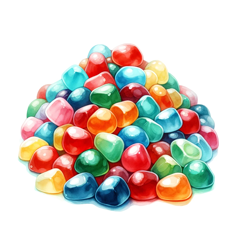
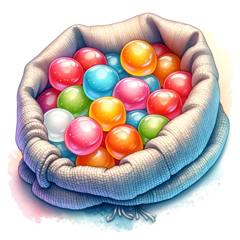
Adds Jasine's Reticent Drops

diff --git a/_posts/2024-01-25-jasines-reticent-drops.md b/_posts/2024-01-25-jasines-reticent-drops.md
@@ -1,0 +1,28 @@
+---
+layout:     post
+title:      "Jasine's Reticent Drops - Magic Item for DnD"
+title_simple:      "Jasine's Reticent Drops"
+date:       2024-01-25 10:00:00 -0400
+categories: magic-item
+tags:       dnd dnd-5e magic-item multi-use tier-1 tier-2 tier-3 tier-4
+magicItemType: wondrous item
+rarity:     common
+requires_attunement: false
+image_base_path: /assets/images/jasines-reticent-drops/
+image:      jasines-reticent-drops-01
+images:
+    - src: jasines-reticent-drops-01
+      alt: Jasine's Reticent Drops
+---
+
+Someone who chews on these enchanted drops will find that they become extremely sticky to the point that the creature eating won't be able to speak for some time. 1 drop is enough to stop someone from speaking for a full minute. If more drops are consumed at the same time, it has increasingly detrimental effects. 2 drops last 5 minutes, 3 last for 30 minutes, and 4 last for an hour.
+
+
+## DM Notes
+
+You might want to prevent your players from consuming, or getting others to consume, more than 4 at a time...
+
+
+## Attribution
+
+{% include srd_attribution.html %}
